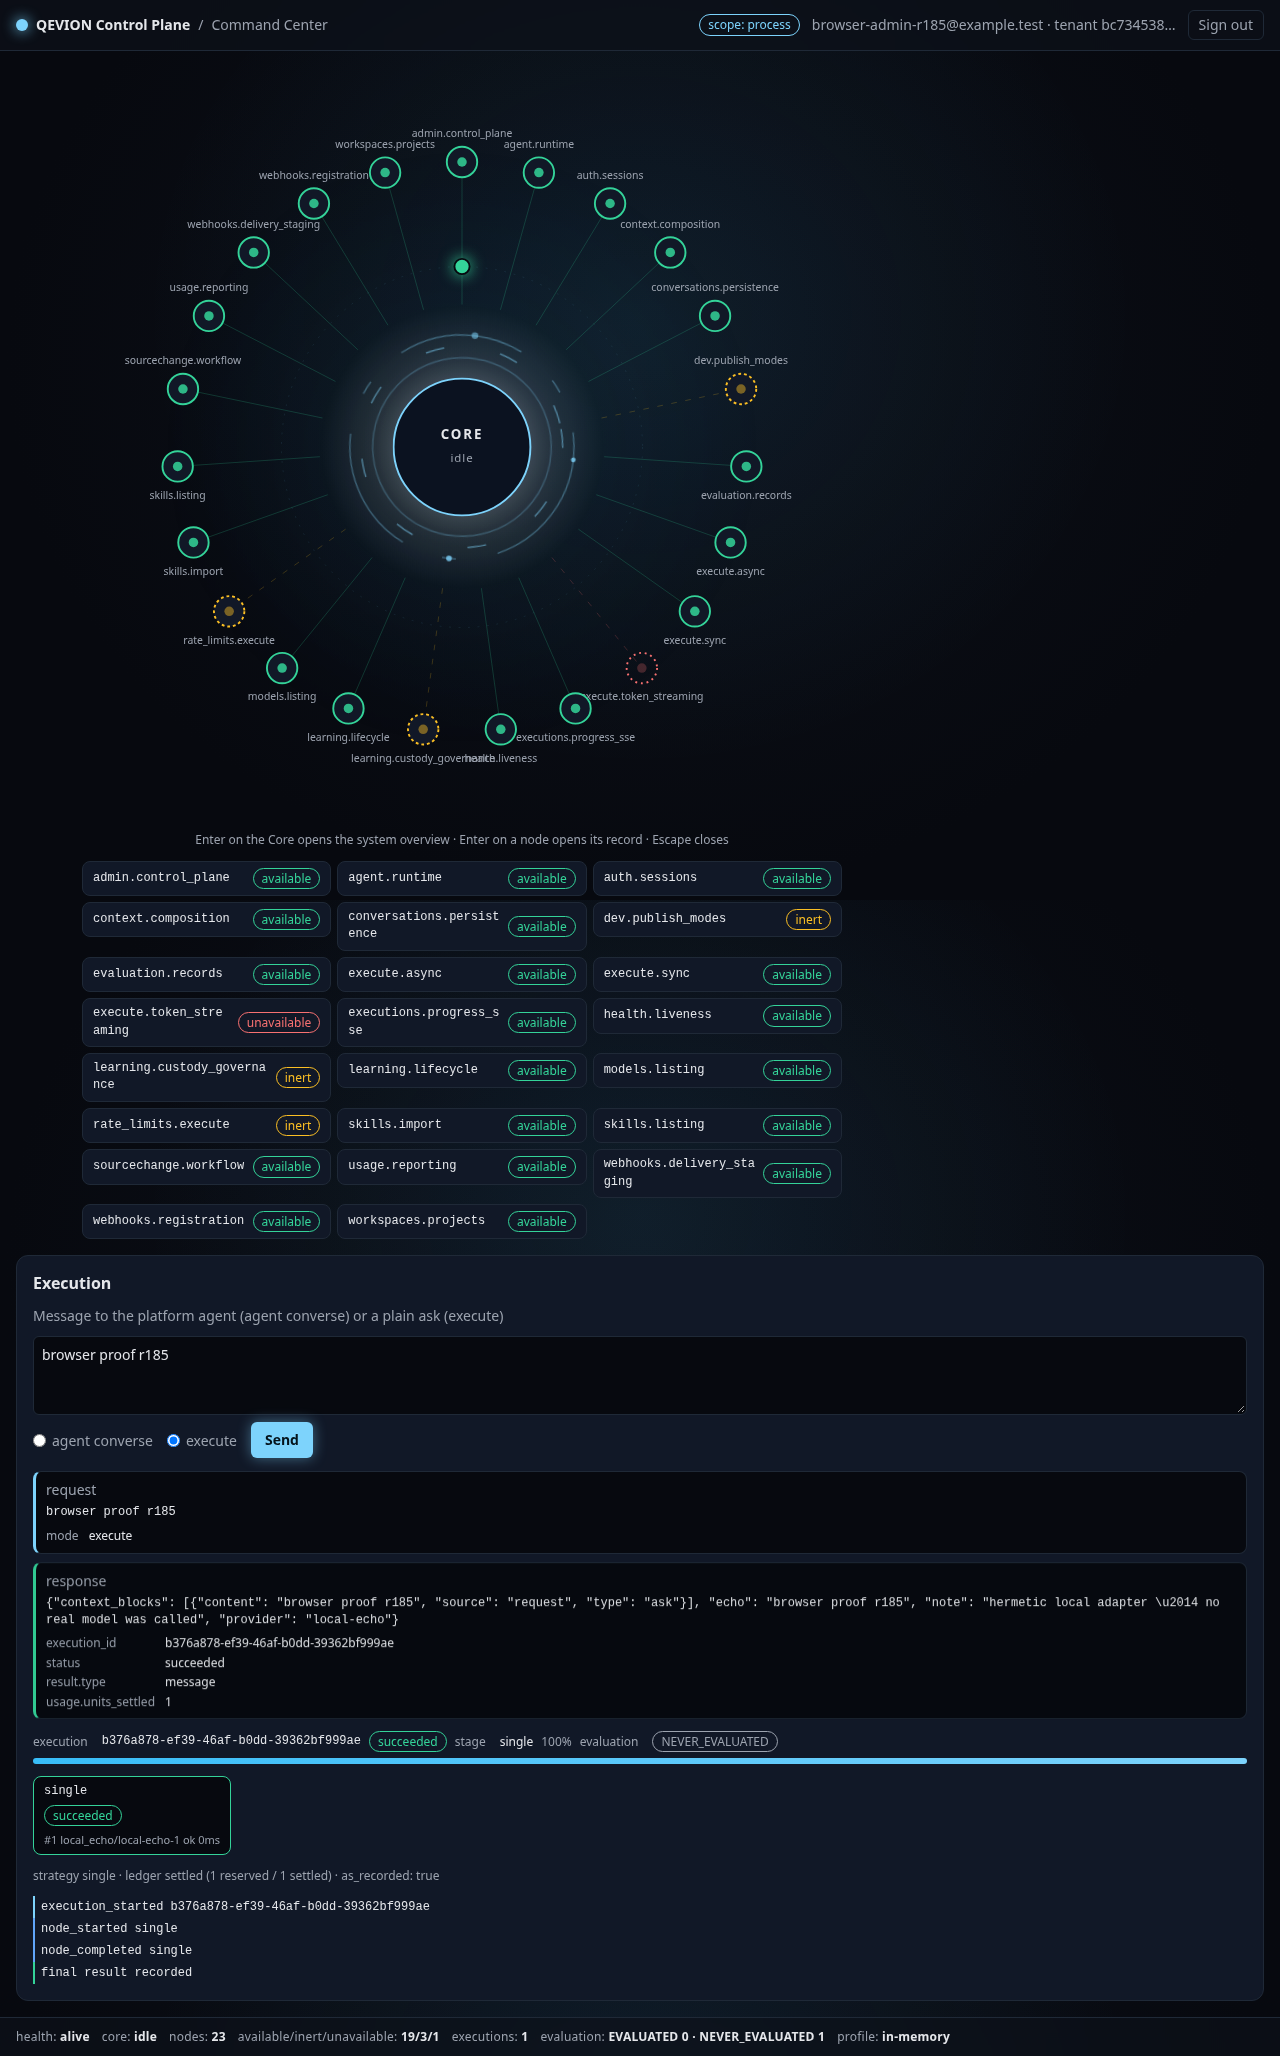
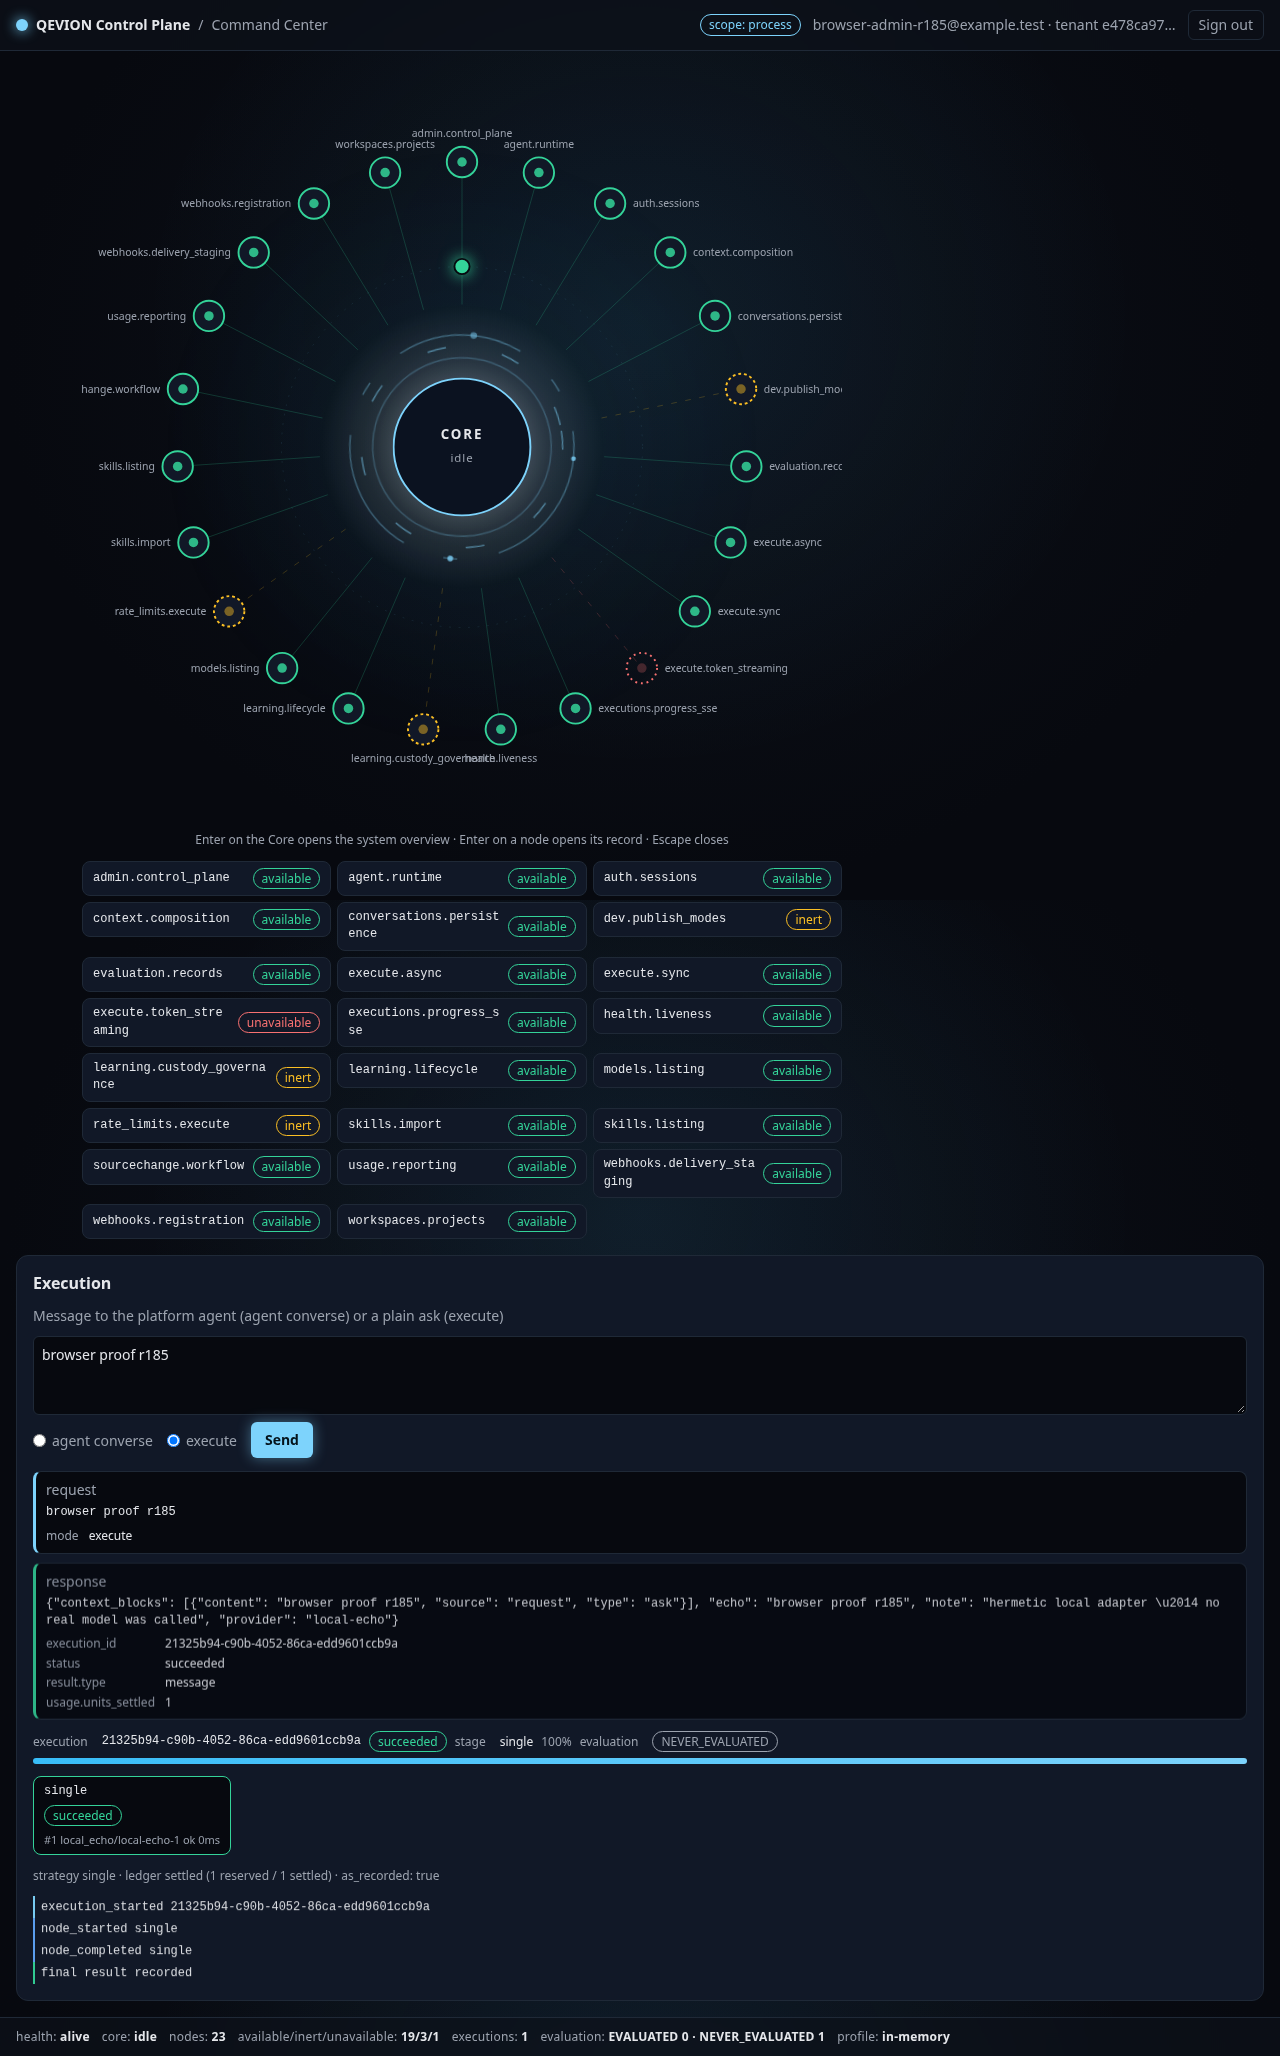
r185 polish: wider viewBox + tighter orbit so radial labels never clip

diff --git a/ui/app/command/command.js b/ui/app/command/command.js
@@ -183,7 +183,7 @@ function deriveCoreState(reachable, executions) {
 
 const SVG_NS = "http://www.w3.org/2000/svg";
 const CENTER = 400;
-const ORBIT = 300;
+const ORBIT = 272;
 const EXECUTION_ORBIT = 190;
 
 function svgEl(name, attrs) {
@@ -262,10 +262,11 @@ function renderTopology(catalog) {
     /* Labels sit radially OUTSIDE the node (anchor follows the side of the circle) so
        neighbouring labels at the top/bottom never collide. */
     const cos = Math.cos(angle);
-    const radial = Math.abs(cos) > 0.35;
+    const sin = Math.sin(angle);
+    const radial = Math.abs(cos) > 0.3;
     const label = svgEl("text", {
       x: radial ? x + (cos > 0 ? 24 : -24) : x,
-      y: radial ? y + 4 : y + (Math.sin(angle) >= 0 ? 34 : -26),
+      y: radial ? y + 4 + sin * 10 : y + (sin >= 0 ? 36 : -26),
       "text-anchor": radial ? (cos > 0 ? "start" : "end") : "middle",
       class: "node-label",
     });

diff --git a/ui/app/command/index.html b/ui/app/command/index.html
@@ -69,7 +69,7 @@
     <h2 id="topology-title" class="visually-hidden">Capability topology</h2>
     <div class="stage">
       <div class="stage-ambient" aria-hidden="true"></div>
-      <svg id="topology-svg" class="topology-svg" viewBox="0 0 800 800" role="group"
+      <svg id="topology-svg" class="topology-svg" viewBox="-60 0 920 800" role="group"
            aria-labelledby="topology-svg-title topology-svg-desc">
         <title id="topology-svg-title">Core, execution orbit and capability nodes</title>
         <desc id="topology-svg-desc">One node per capability and one dot per execution returned by the server; the list below mirrors the graph.</desc>
